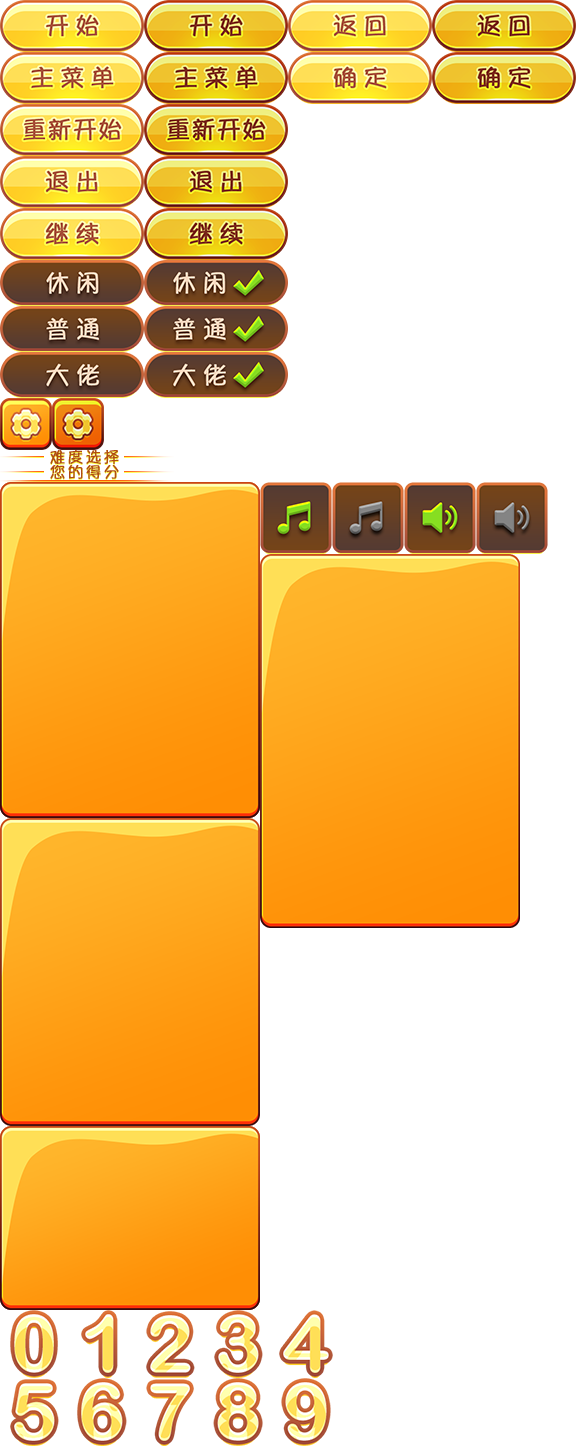
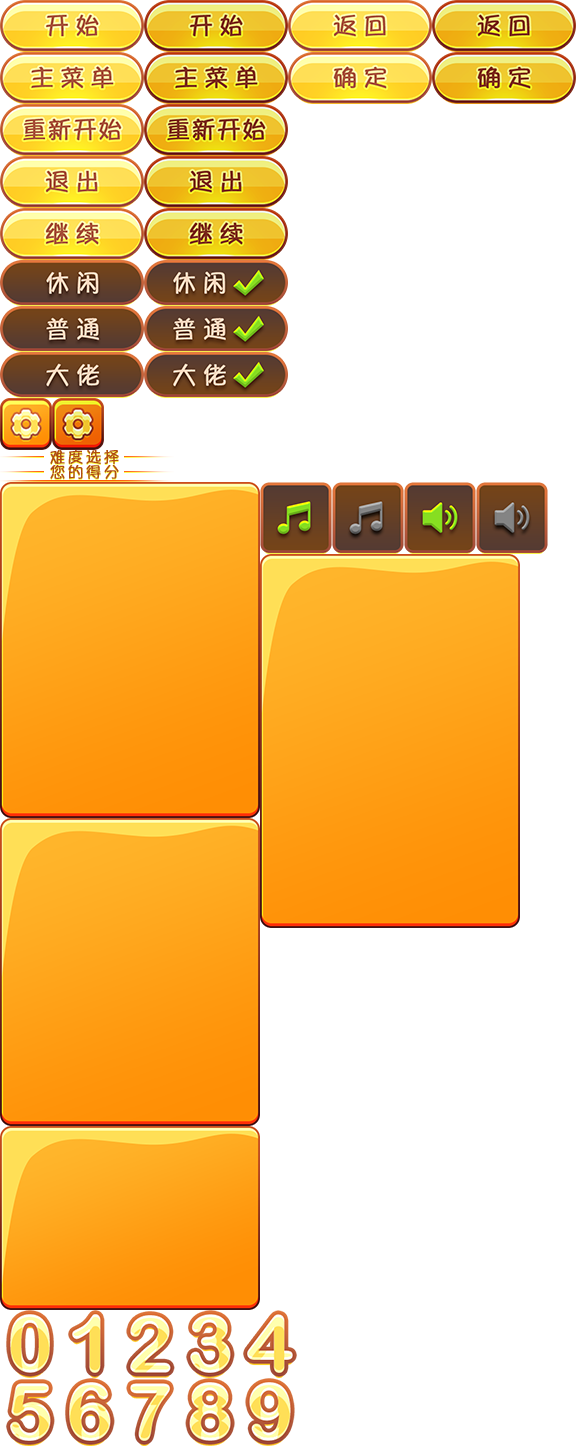
小改动

Changed region(s): [[0.0, 0.9025, 0.5938, 1.0]]

diff --git a/FlappyBird.js b/FlappyBird.js
@@ -103,7 +103,7 @@ let FlappyBird = {
             },
             fallingBody: function (bird, gameLevel, time) { // 小鸟落体运动
                 if (!bird.death) {
-                    bird.top = bird.topOrigin + bird.velocityY * bird.t + bird.G_IN_GAME * Math.pow(bird.t, 2) / 2;// 根据自由落体公式统一单位后计算小鸟的位置
+                    bird.top = bird.topOrigin + bird.velocityY * bird.t + bird.G_IN_GAME * Math.pow(bird.t, 2) / 2; // 根据自由落体公式统一单位后计算小鸟的位置
                     bird.t += 0.1;
                 }
             },
@@ -719,7 +719,7 @@ let FlappyBird = {
                 for (let i = 0; i < fScoreString.length; i++) {
                     let _singleScoreBox = document.createElement('span');
                     _singleScoreBox.style.display = 'inline-block';
-                    _singleScoreBox.style.width = '68px';
+                    _singleScoreBox.style.width = '60px';
                     _singleScoreBox.style.height = '68px';
                     _singleScoreBox.style.backgroundImage = 'url(' + self.imagesInAsset.maps + ')';
                     _singleScoreBox.style.backgroundRepeat = 'no-repeat';
@@ -729,31 +729,31 @@ let FlappyBird = {
                             _singleScoreBox.style.backgroundPosition = '0 -1310px';
                             break;
                         case '1':
-                            _singleScoreBox.style.backgroundPosition = '-68px -1310px';
+                            _singleScoreBox.style.backgroundPosition = '-60px -1310px';
                             break;
                         case '2':
-                            _singleScoreBox.style.backgroundPosition = '-136px -1310px';
+                            _singleScoreBox.style.backgroundPosition = '-120px -1310px';
                             break;
                         case '3':
-                            _singleScoreBox.style.backgroundPosition = '-204px -1310px';
+                            _singleScoreBox.style.backgroundPosition = '-180px -1310px';
                             break;
                         case '4':
-                            _singleScoreBox.style.backgroundPosition = '-272px -1310px';
+                            _singleScoreBox.style.backgroundPosition = '-240px -1310px';
                             break;
                         case '5':
                             _singleScoreBox.style.backgroundPosition = '0 -1378px';
                             break;
                         case '6':
-                            _singleScoreBox.style.backgroundPosition = '-68px -1378px';
+                            _singleScoreBox.style.backgroundPosition = '-60px -1378px';
                             break;
                         case '7':
-                            _singleScoreBox.style.backgroundPosition = '-136px -1378px';
+                            _singleScoreBox.style.backgroundPosition = '-120px -1378px';
                             break;
                         case '8':
-                            _singleScoreBox.style.backgroundPosition = '-204px -1378px';
+                            _singleScoreBox.style.backgroundPosition = '-180px -1378px';
                             break;
                         case '9':
-                            _singleScoreBox.style.backgroundPosition = '-272px -1378px';
+                            _singleScoreBox.style.backgroundPosition = '-240px -1378px';
                             break;
                     }
 
